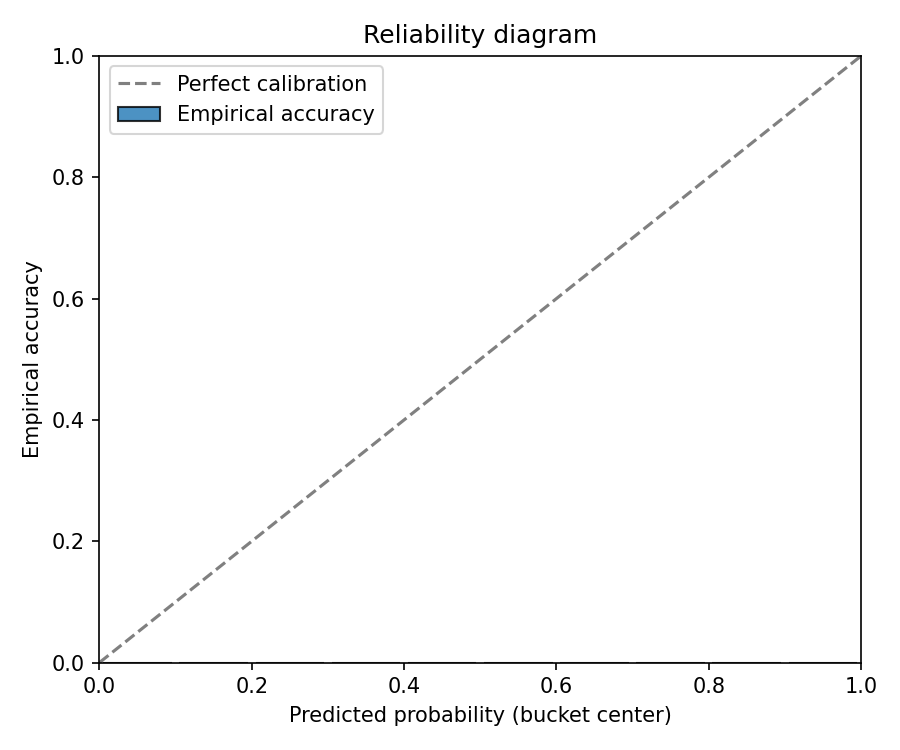
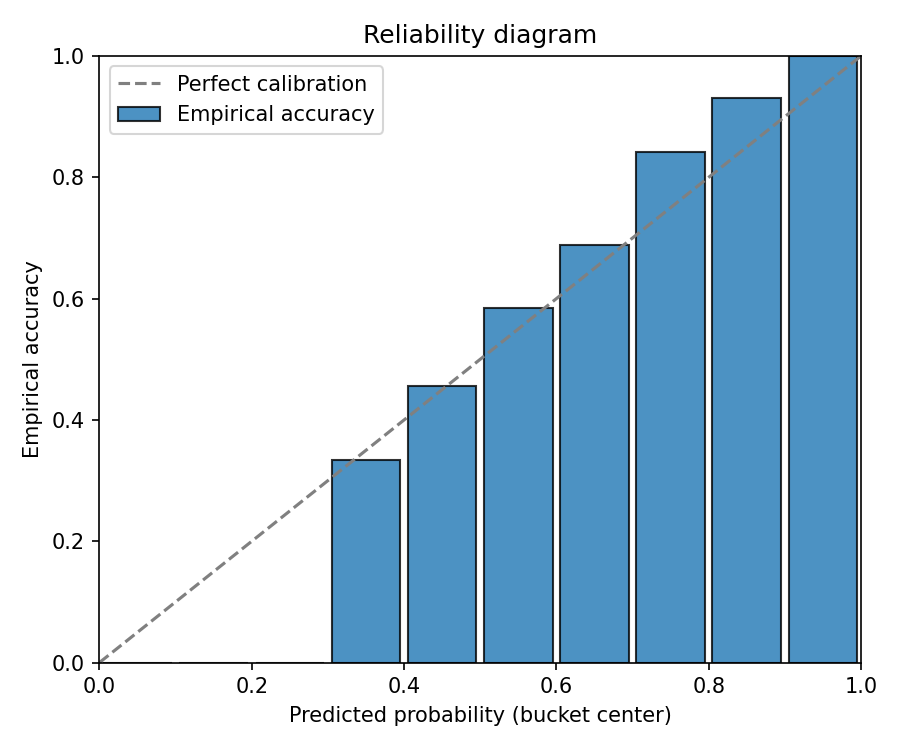
fix calibration

diff --git a/run_calibration.py b/run_calibration.py
@@ -1,0 +1,145 @@
+"""
+Run manual evaluation + calibration analysis on the fine-tuned Lab 7A model.
+
+Outputs:
+- figures/reliability-diagram.png
+- calibration_metrics.json
+
+This script intentionally avoids Trainer.predict and uses the manual
+PyTorch inference loop implemented in manual_eval.py.
+"""
+
+import json
+import os
+
+# Must be set before any other import
+os.environ["TOKENIZERS_PARALLELISM"] = "false"
+os.environ["OMP_NUM_THREADS"] = "1"
+os.environ["MKL_NUM_THREADS"] = "1"
+
+# ── Load data FIRST, before torch/transformers touch the allocator ──────────
+import numpy as np
+import pandas as pd
+from sklearn.model_selection import train_test_split
+from lab import get_data_path
+
+print("Loading dataset...")
+data_path = get_data_path()
+df = pd.read_csv(data_path)
+_, test_df = train_test_split(df, test_size=0.2, random_state=42)
+test_texts = test_df["text"].tolist()
+y_true     = test_df["label"].to_numpy()
+
+
+import torch
+from transformers import AutoModelForSequenceClassification, AutoTokenizer
+
+from calibration import (
+    expected_calibration_error,
+    plot_reliability,
+    reliability_diagram,
+)
+from manual_eval import (
+    compute_classification_report_from_arrays,
+    manual_predict,
+)
+
+
+def main():
+    model_dir = "model"
+    os.makedirs("figures", exist_ok=True)
+
+    # Load fine-tuned model + tokenizer
+    print("Loading fine-tuned model...")
+    device = torch.device("cuda" if torch.cuda.is_available() else "cpu")
+    model = AutoModelForSequenceClassification.from_pretrained(model_dir)
+    model.to(device)
+    model.eval()
+    tokenizer = AutoTokenizer.from_pretrained(model_dir)
+    id2label  = model.config.id2label
+
+    # Manual inference
+    print("Running manual inference...")
+    y_pred, probs = manual_predict(
+        model=model,
+        tokenizer=tokenizer,
+        texts=test_texts,
+        batch_size=8,
+    )
+
+    # Classification metrics
+    print("Computing classification metrics...")
+    report = compute_classification_report_from_arrays(
+        y_true=y_true,
+        y_pred=y_pred,
+    )
+
+    # Calibration metrics
+    print("Computing calibration metrics...")
+    centers, accs, counts = reliability_diagram(
+        probs=probs,
+        y_true=y_true,
+        n_bins=10,
+    )
+    ece = expected_calibration_error(
+        probs=probs,
+        y_true=y_true,
+        n_bins=10,
+    )
+
+    # Save reliability diagram
+    plot_path = "figures/reliability-diagram.png"
+    print(f"Saving reliability diagram to {plot_path}...")
+    plot_reliability(
+        centers=centers,
+        accs=accs,
+        counts=counts,
+        output_path=plot_path,
+    )
+
+    # Save metrics JSON
+    results = {
+        "accuracy"         : float(report["accuracy"]),
+        "macro_f1"         : float(report["macro_f1"]),
+        "ece"              : float(ece),
+        "label_names"      : id2label,
+        "per_class"        : report["per_class"],
+        "bucket_centers"   : centers.tolist(),
+        "bucket_accuracies": accs.tolist(),
+        "bucket_counts"    : counts.tolist(),
+    }
+    with open("calibration_metrics.json", "w") as f:
+        json.dump(results, f, indent=2)
+
+    # Console summary
+    print("\n=== Manual Evaluation Results ===")
+    print(f"Accuracy : {report['accuracy']:.4f}")
+    print(f"Macro-F1 : {report['macro_f1']:.4f}")
+    print(f"ECE      : {ece:.4f}")
+
+    print("\nPer-class metrics:")
+    for label_idx, metrics in report["per_class"].items():
+        label_name = id2label.get(label_idx, str(label_idx))
+        print(
+            f"  {label_name:<10} "
+            f"P={metrics['precision']:.4f}  "
+            f"R={metrics['recall']:.4f}  "
+            f"F1={metrics['f1']:.4f}"
+        )
+
+    print("\nReliability buckets:")
+    for i in range(len(centers)):
+        print(
+            f"  Bin {i:02d}  "
+            f"center={centers[i]:.2f}  "
+            f"accuracy={accs[i]:.4f}  "
+            f"count={counts[i]}"
+        )
+
+    print("\nSaved:")
+    print(f"  - {plot_path}")
+    print("  - calibration_metrics.json")
+
+
+if __name__ == "__main__":
+    main()
